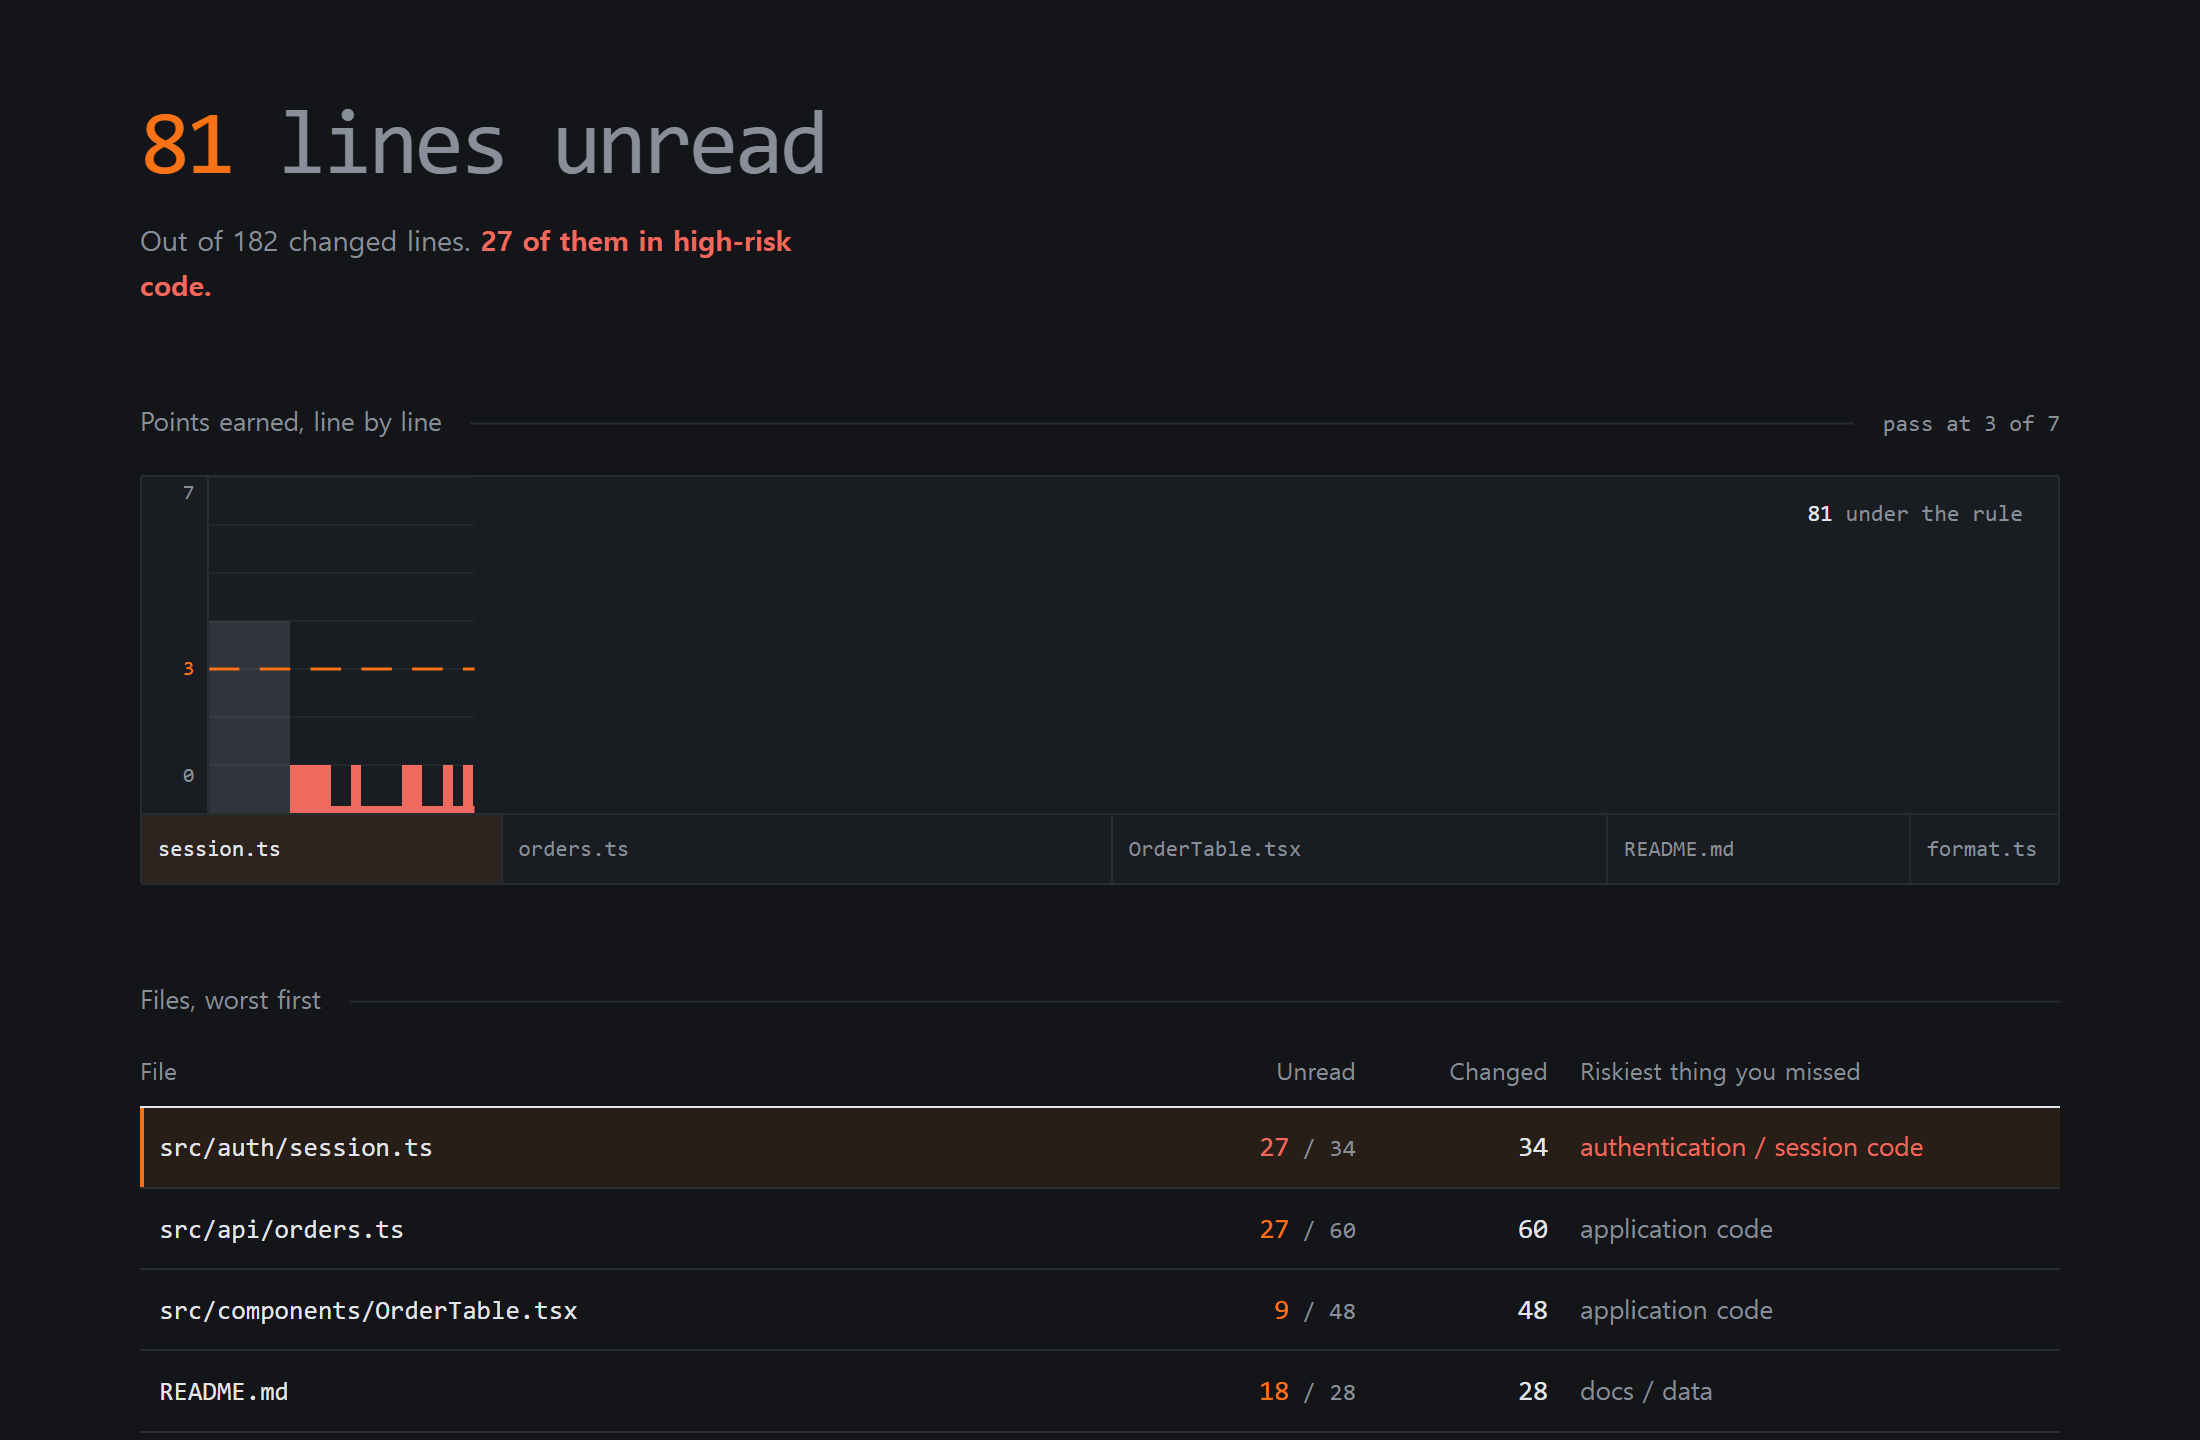
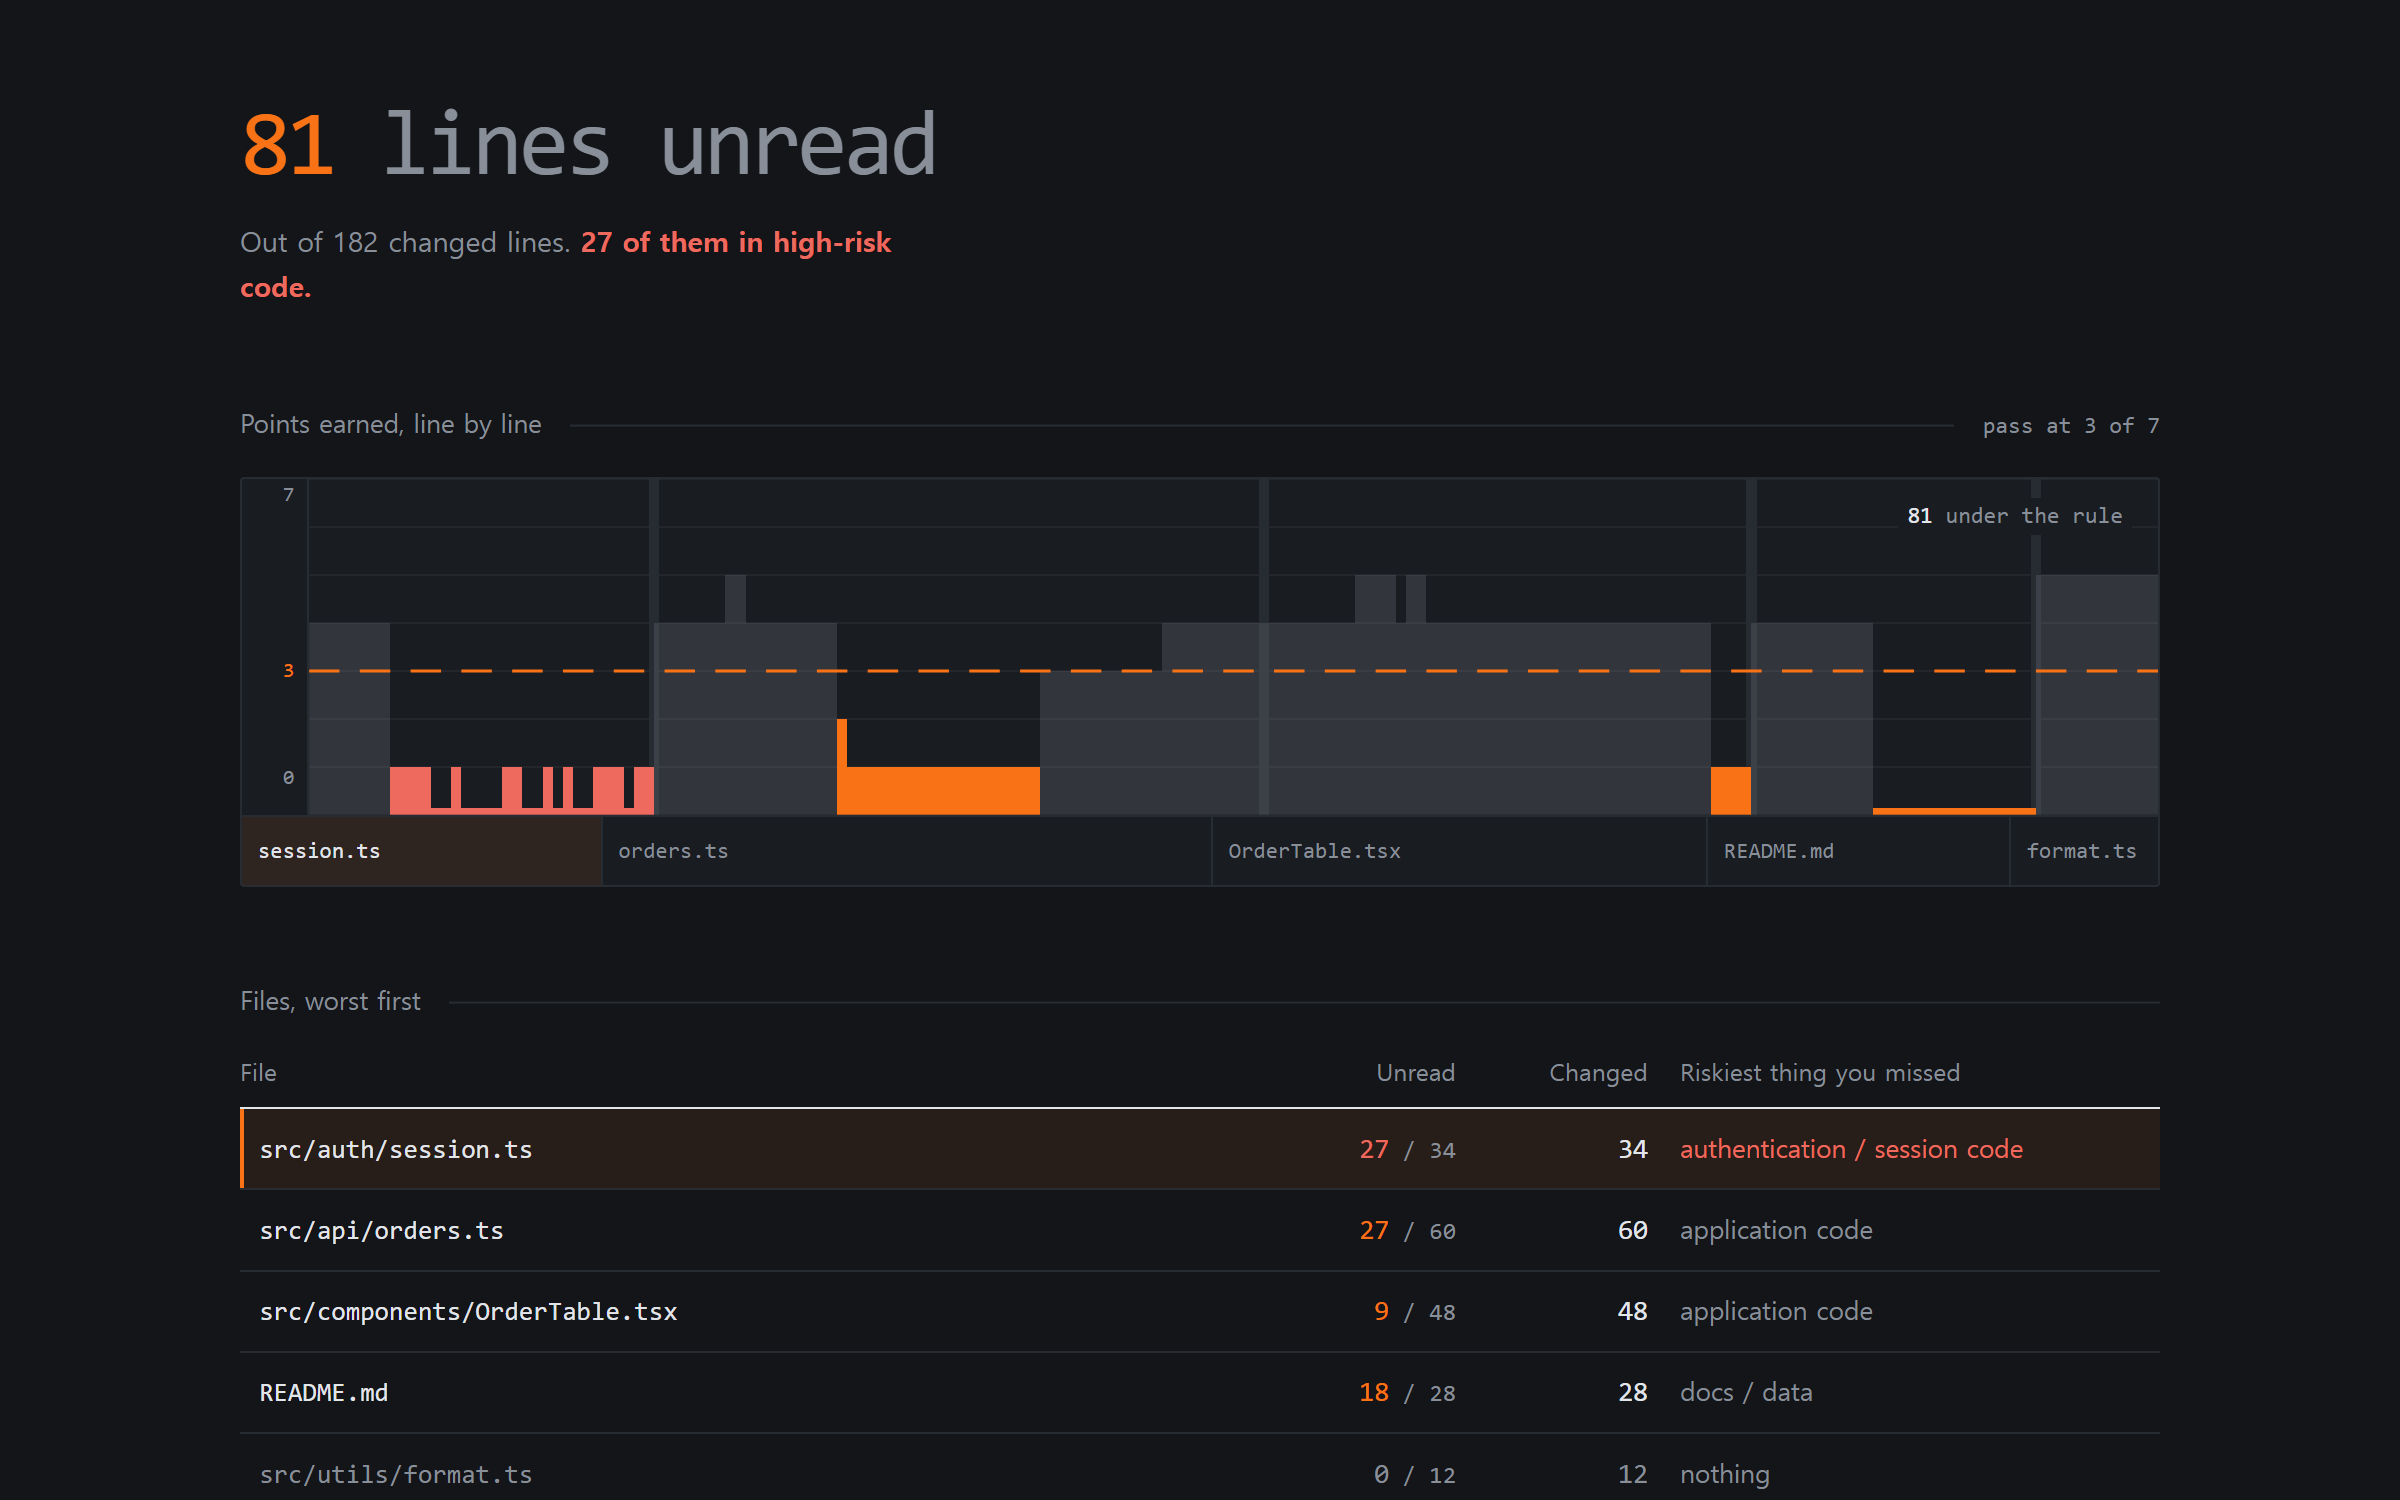
docs: show the file, not only the verdict
Two screenshots at 16:10, rendered from the demo page at 2x. The panel shot
replaces the one that was there; the new one is a file line by line, which is
where the claim is actually legible — the lines that earned enough points
dimmed, the ones that did not marked in the gutter.

Claude-Session: https://claude.ai/code/session_01FELsPbpuNAqjNMtAtUgqXP

diff --git a/README.ko.md b/README.ko.md
@@ -227,6 +227,12 @@ blindspot — 2/3 pts
 "나 이거 읽었는데"와 모델의 판단이 갈릴 때, 그 자리에서 어느 쪽이 맞는지
 확인할 수 있어야 모델을 고칠 수도 있습니다. `blindspot.explainOnHover`.
 
+패널은 같은 이야기를 파일 단위로 합니다. 파일의 모든 줄이 나오고, 점수를 채운
+줄은 흐리게, 못 채운 줄은 여백에 표시됩니다 — 리뷰했다고 생각한 diff에 안 읽은
+부분이 그대로 남아 있는 그림입니다.
+
+![Blindspot 리포트 패널의 파일 한 개 — 읽은 것으로 인정된 줄은 흐리게, 안 읽은 줄은 여백에 표시](media/evidence.png)
+
 ## 두 가지 모드: Diff / Reading
 
 같은 엔진, 같은 보고서, 대상만 다릅니다. 상태 표시줄, `Blindspot: Switch Mode`,

diff --git a/README.md b/README.md
@@ -217,6 +217,13 @@ blindspot — 2/3 pts
 When "but I did read that" collides with the model's verdict, this is where it
 gets settled — and where the model gets corrected. `blindspot.explainOnHover`.
 
+The panel says the same thing at the scale of a file: every line of it, the
+ones that earned enough points dimmed, the ones that did not marked in the
+gutter — the diff you thought you reviewed, with the parts you did not read
+still in it.
+
+![A file in the Blindspot report panel, line by line: the lines that earned enough points to count as read dimmed, the unread ones marked in the gutter](media/evidence.png)
+
 ## Two modes: Diff and Reading
 
 One engine, one report; only the target differs. Switch from the status bar,
